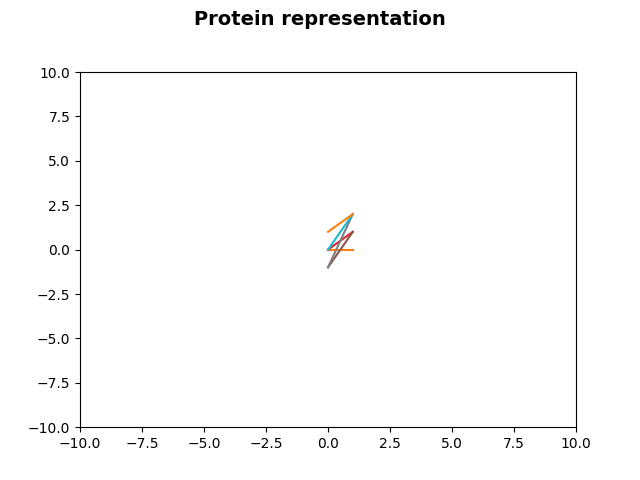
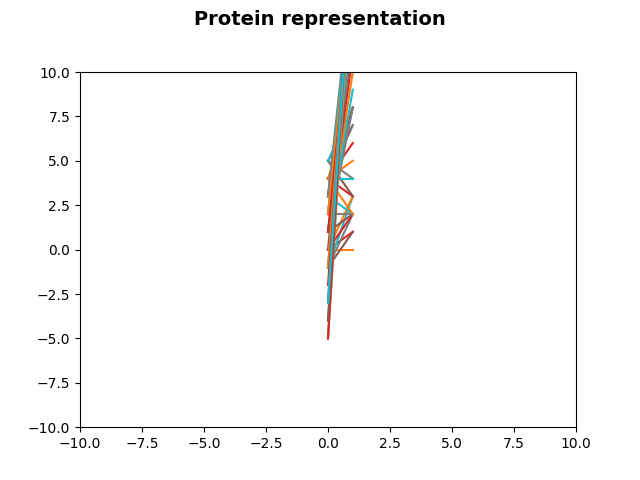
comments added

Changed region(s): [[0.5, 0.1562, 0.5625, 0.6875]]

diff --git a/code/classes/molecule.py b/code/classes/molecule.py
@@ -10,9 +10,10 @@ class Molecule:
         self.location = location
         self.size_data = size_data
         self.occupied = occupied
-        self.terminate = False
-        self.next_fold = 0 #self.create_fold()
-        self.next_location =  [0,0] #self.assign_location()
+        self.next_fold = 0 
+        self.next_location =  [0,0] 
+
+        # picks where to fold the next molecule to
         self.create_fold()
         
         
@@ -20,10 +21,9 @@ class Molecule:
         # set fold types
         types = [-2, -1 , 1, 2]
         
-
         # keeps it from immediately folding back on itself
         if self.fold != 0:
-            types.remove(self.fold*-1)
+            types.remove(self.fold * -1)
 
         # assign a fold of 0 for the last molecule
         if self.molecule_number == self.size_data - 1:
@@ -39,7 +39,9 @@ class Molecule:
 
                 # remove current fold from types to prevent using the same fold
                 types.remove(current_type)
-                
+                if not types:
+                    return print("protein folded in itself")
+
                 # check if location is possible 
                 try_location = self.assign_location()
 
